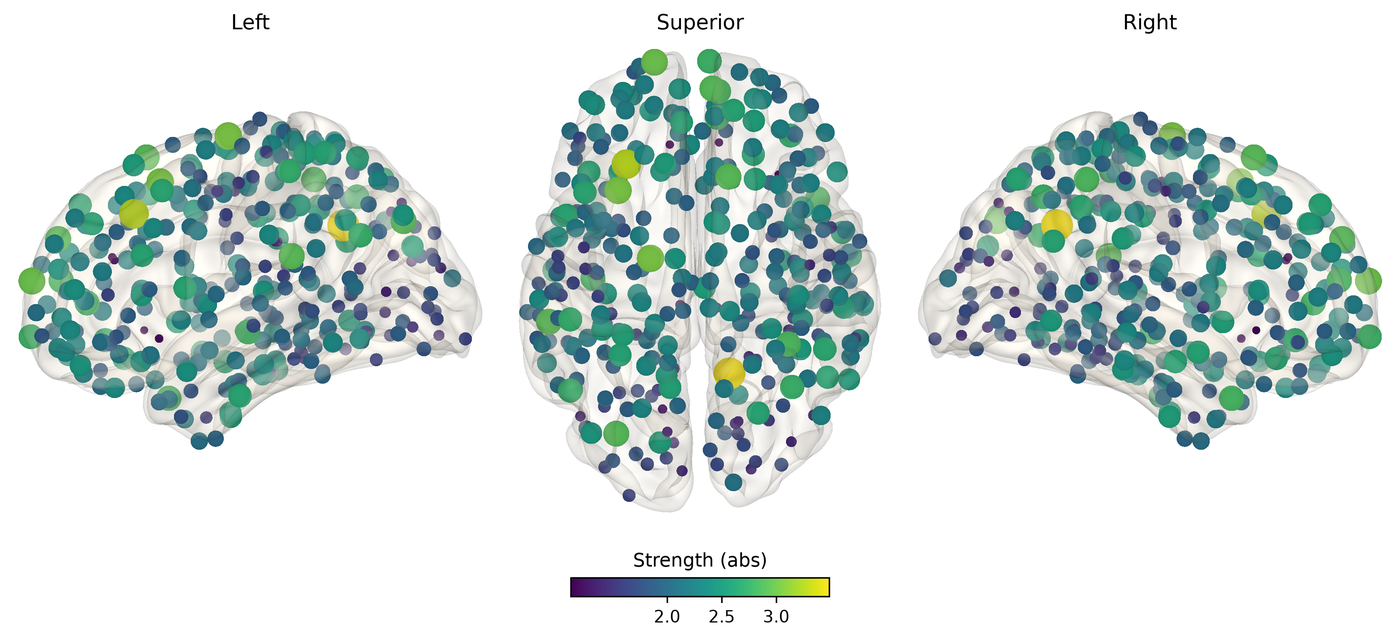
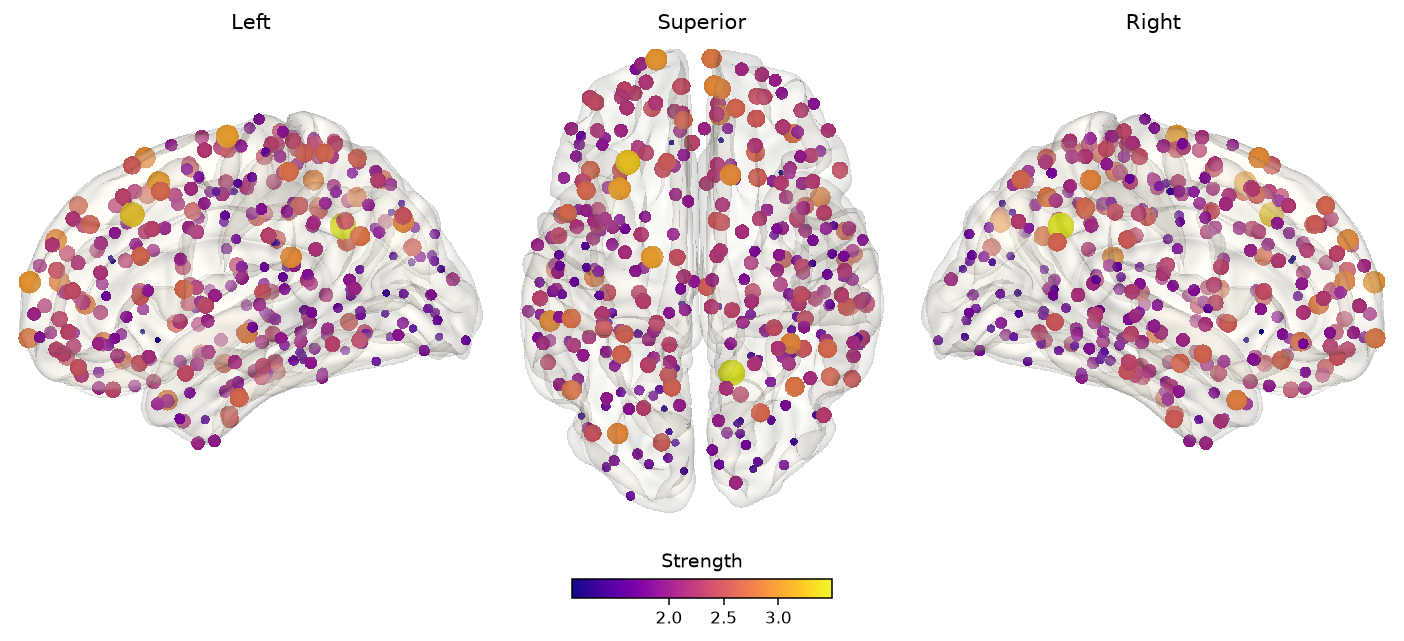
feat(docs): update README with new images and improved descriptions for clarity

diff --git a/README.md b/README.md
@@ -2,10 +2,10 @@
 
 Graph-theory metrics, group comparisons and network-based statistics for brain connectivity, with HTML reports and 3-D brain figures.
 
-![Node strength on the brain](https://raw.githubusercontent.com/QiuyuYu3/brainnet3d/main/docs/images/brain_strength.png)
+![A brain network on the brain, as a bundled circos plot and in a spring layout](https://raw.githubusercontent.com/QiuyuYu3/brainnet3d/main/docs/images/banner.png)
 
-- Reads XCP-D and fnirs-pipe outputs, or a folder of connectivity matrices or regional time series.
-- Builds a graph for each participant (TMFG by default, or one of eleven other methods) and computes node, network and whole-graph metrics.
+- Takes connectivity matrices or regional time series as input, in common table, NumPy, MATLAB, CIFTI and AFNI formats (XCP-D derivatives are read as they are).
+- Builds a graph for each participant with one of twelve methods, such as TMFG, density thresholding or orthogonal minimum spanning trees, and computes node, network and whole-graph metrics with bctpy, the Python Brain Connectivity Toolbox.
 - Compares two groups on the metrics, the network blocks and every edge, with covariates and permutation-based corrections, and runs the network-based statistic.
 - Writes an HTML report for each participant and for the group, with a Methods section written from the run's settings.
 
@@ -24,11 +24,19 @@ pip install .
 `conngraph` works like a BIDS App: a participant level, then a group level.
 
 ```bash
-conngraph derivatives/xcpd results participant --input-type xcpd --atlases Gordon
+conngraph derivatives/xcpd results participant \
+    --input-type xcpd \
+    --atlases Gordon
 
-conngraph derivatives/xcpd results group --input-type xcpd --atlases Gordon \
-    --groups participants.tsv --group-column group --contrast PT HC --covariates age sex \
-    --correction fdr --nbs-thresh 3.5
+conngraph derivatives/xcpd results group \
+    --input-type xcpd \
+    --atlases Gordon \
+    --groups participants.tsv \
+    --group-column group \
+    --contrast PT HC \
+    --covariates age sex \
+    --correction fdr \
+    --nbs-thresh 3.5
 ```
 
 Input formats, options and the output layout are described in [docs/usage.md](https://github.com/QiuyuYu3/brainnet3d/blob/main/docs/usage.md); `conngraph --help` lists every option.
@@ -37,15 +45,23 @@ Input formats, options and the output layout are described in [docs/usage.md](ht
 
 All figures below come from a mock dataset of 30 participants on the Gordon atlas.
 
-| | |
-|---|---|
-| ![Group difference on the brain](https://raw.githubusercontent.com/QiuyuYu3/brainnet3d/main/docs/images/nbs_brain.png) | ![Group means and difference](https://raw.githubusercontent.com/QiuyuYu3/brainnet3d/main/docs/images/nbs_matrices.png) |
-| Network-based statistic: the edges that differ between groups | Group mean matrices and their difference |
-| ![Circos plot bundled by network](https://raw.githubusercontent.com/QiuyuYu3/brainnet3d/main/docs/images/circos_bundled.png) | ![Spring layout](https://raw.githubusercontent.com/QiuyuYu3/brainnet3d/main/docs/images/spring_plain.png) |
-| Group network, edges bundled through their networks | Group network in a spring layout |
-| ![Edge-wise t values](https://raw.githubusercontent.com/QiuyuYu3/brainnet3d/main/docs/images/compare_edges.png) | ![Metric distributions in the report](https://raw.githubusercontent.com/QiuyuYu3/brainnet3d/main/docs/images/report_boxplot.png) |
-| Group comparison report: t of every edge | Group report: a metric across network nodes |
+<p align="center"><img src="https://raw.githubusercontent.com/QiuyuYu3/brainnet3d/main/docs/images/brain_strength.png" alt="Node strength on the brain" width="100%"></p>
+<p align="center"><em>Group mean node strength on the brain</em></p>
 
-![Group network in the report](https://raw.githubusercontent.com/QiuyuYu3/brainnet3d/main/docs/images/report_group_network.png)
+<p align="center"><img src="https://raw.githubusercontent.com/QiuyuYu3/brainnet3d/main/docs/images/nbs_brain.png" alt="Group difference on the brain" width="100%"></p>
+<p align="center"><em>Network-based statistic: the edges that differ between groups</em></p>
 
-Group report: the group network as interactive circos plots and a spring layout; hover a region for its name.
+<p align="center"><img src="https://raw.githubusercontent.com/QiuyuYu3/brainnet3d/main/docs/images/nbs_matrices.png" alt="Group means and difference" width="100%"></p>
+<p align="center"><em>Group mean matrices and their difference</em></p>
+
+<p align="center"><img src="https://raw.githubusercontent.com/QiuyuYu3/brainnet3d/main/docs/images/circos_bundled.png" alt="Circos plot bundled by network" width="49%"> <img src="https://raw.githubusercontent.com/QiuyuYu3/brainnet3d/main/docs/images/spring_plain.png" alt="Spring layout" width="49%"></p>
+<p align="center"><em>The group network: edges bundled through their networks (left) and a spring layout (right)</em></p>
+
+<p align="center"><img src="https://raw.githubusercontent.com/QiuyuYu3/brainnet3d/main/docs/images/report_group_network.png" alt="Group network in the report" width="100%"></p>
+<p align="center"><em>Group report: the same network as interactive figures; hover a region for its name</em></p>
+
+<p align="center"><img src="https://raw.githubusercontent.com/QiuyuYu3/brainnet3d/main/docs/images/report_boxplot.png" alt="Metric distributions in the report" width="100%"></p>
+<p align="center"><em>Group report: a metric across network nodes, one point per participant</em></p>
+
+<p align="center"><img src="https://raw.githubusercontent.com/QiuyuYu3/brainnet3d/main/docs/images/compare_edges.png" alt="Edge-wise t values" width="60%"></p>
+<p align="center"><em>Group comparison report: t of every edge, significant cells at full colour</em></p>
